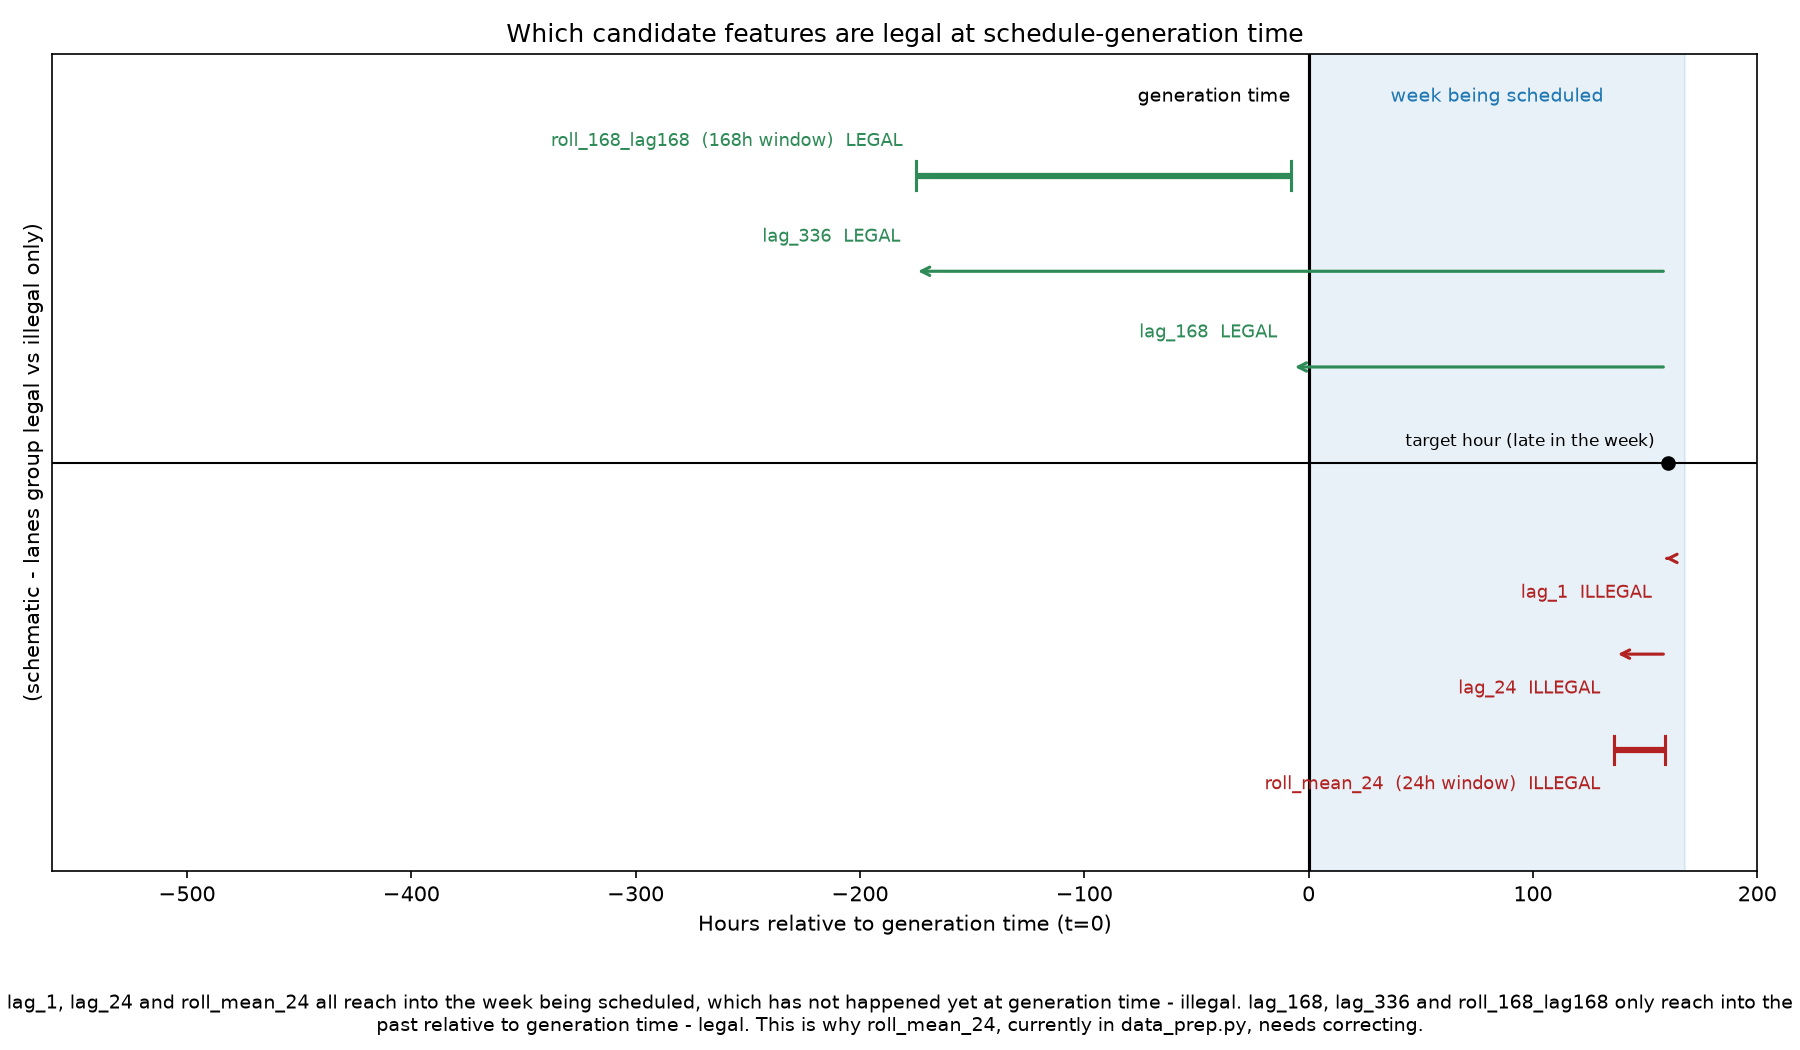
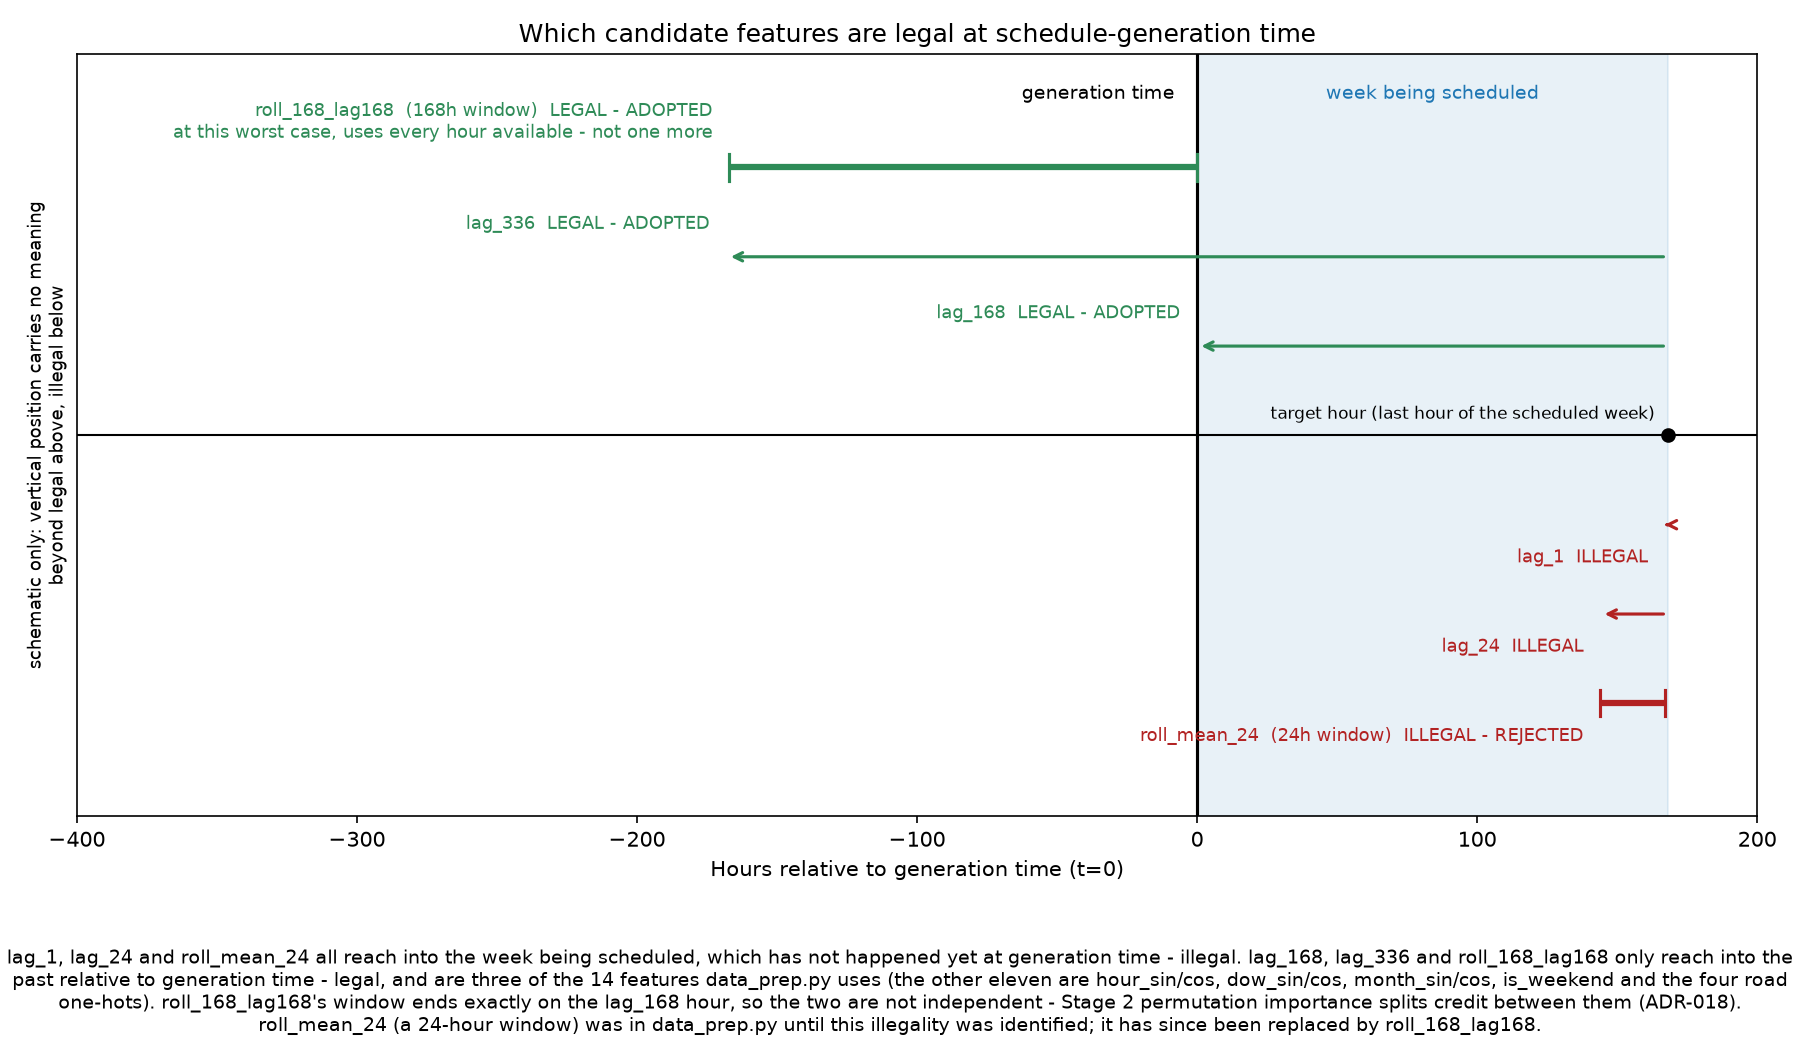
Correct Figure 8 after the ADR-015 feature change
Figure 8 presented the 24-hour rolling mean as a current feature in
data_prep.py. ADR-015 replaced it, so the figure was factually wrong from
commit ac695a1 onward. ADR-017 anticipated this.

Three corrections from human review. The target hour moves from t=160 to
t=168, the last hour of the scheduled week, which is the binding case
ADR-015 states the legality rule against. At t=168 lag_168 lands exactly
on the generation line and roll_168_lag168 covers exactly the 168 hours
before it, so the figure now demonstrates the rule rather than
illustrating a comfortable case. The caption no longer describes three
lag features as the whole feature set; it states all fourteen. The
caption also discloses that roll_168_lag168's window ends on the lag_168
hour, so the two features overlap and permutation importance will split
credit between them, as recorded in ADR-018.

Positions are computed from the target offset rather than hardcoded.
Figures 1 to 7 are unchanged; they are drawn from the raw CSV without the
warm-up drop, so the feature change does not affect them.

data/feature_table.csv is left uncommitted pending ADR-019.

diff --git a/explore_features.py b/explore_features.py
@@ -9,23 +9,32 @@ for a report that has to justify each feature with evidence. This file
 produces that evidence as figures and printed numbers, so each feature in
 the methodology chapter can point at a figure instead of an assertion.
 
-It is a verification step, not a formality: it can show a feature choice
-was wrong. One already has - see Figure 8. roll_mean_24 (the mean of the
-24 hours immediately before the predicted hour) needs data that does not
-exist when a week of green-time schedules is generated in advance, in one
-batch, before that week has happened. It is illegal for a generation-time
+It is a verification step, not a formality: it already showed a feature
+choice was wrong - see Figure 8. roll_mean_24 (the mean of the 24 hours
+immediately before the predicted hour) needs data that does not exist when
+a week of green-time schedules is generated in advance, in one batch,
+before that week has happened. It was illegal for a generation-time
 feature set even though it is a perfectly good feature for same-day
-forecasting. Correcting data_prep.py for this is a separate task; this
-file's job is only to produce the evidence.
+forecasting. data_prep.py has since been corrected (ADR-015): it now uses
+lag_168, lag_336 and roll_168_lag168, and no longer uses roll_mean_24.
+Figure 8 records the reasoning that correction was based on.
 
 WHY THIS FILE DOES NOT IMPORT FROM data_prep.py
 --------------------------------------------------
-Figures 6 and 8 examine candidate features - lag_336, roll_168_lag168 -
-that do not exist in data_prep.py's FEATURE_COLUMNS. This file reads
-data/traffic_final_cleaned.csv directly and computes everything itself,
-independently of data_prep.py, so it can examine features data_prep.py
-has not adopted yet without needing to modify it (which this task
-explicitly forbids).
+This file reads data/traffic_final_cleaned.csv directly and computes every
+lag and rolling feature itself, independently of data_prep.py, rather than
+calling its engineering functions. The figures exist to be evidence for the
+feature choices in a report, and evidence that shares a code path with the
+thing it evidences cannot catch a bug in it: if both files computed
+roll_168_lag168 the same wrong way, these figures would faithfully
+reproduce data_prep.py's bug rather than reveal it. Keeping a second,
+independent implementation is what makes an agreement check between the two
+meaningful rather than circular (see the cross-check in __main__).
+
+One exception: FEATURE_COLUMNS itself is imported below, but only to print
+its length in Figure 8's caption. It is a list of column names, not a
+computation, so reading it does not create the shared-code-path problem
+above.
 
 A NOTE ON WHAT AN AUTOMATED REVIEW CAN AND CANNOT CHECK
 ----------------------------------------------------------
@@ -50,6 +59,8 @@ import matplotlib.pyplot as plt
 import numpy as np
 import pandas as pd
 
+from data_prep import FEATURE_COLUMNS
+
 DATA_PATH = "data/traffic_final_cleaned.csv"
 FIG_DIR = "figures"
 DPI = 150
@@ -63,6 +74,7 @@ TREND_WINDOW = 672  # 28 days - matches TRAILING_WINDOW_HOURS in data_prep.py
 
 # Candidate lag features examined in Figure 8. Defined here as constants so
 # the diagram cannot drift out of step with the definitions again.
+LAG_24 = 24                      # same hour, 1 day earlier
 LAG_168 = 168                    # same hour, 1 week earlier
 LAG_336 = 336                    # same hour, 2 weeks earlier
 ROLL_WINDOW_LEGAL = 168          # width of the legal rolling mean
@@ -432,30 +444,46 @@ def fig8_feature_legality():
     eye after any change.
 
     Generation happens at t=0; a week of schedules (t=0 to t=168) is
-    produced in one batch before any of it has happened. A target hour
-    late in that week (t=160) can only legally use data that already
-    existed at t=0, i.e. data from t<=0.
+    produced in one batch before any of it has happened. The target hour is
+    placed at t=168, the LAST hour of that week - the binding case, where
+    every legal feature has the least room to spare. It can only legally
+    use data that already existed at t=0, i.e. data from t<=0.
 
     ILLEGAL, all reach into the week being scheduled:
-        lag_1         -> t=159
-        lag_24        -> t=136
-        roll_mean_24  -> window [t-24, t-1] = [136, 159]
+        lag_1         -> t=167   (never adopted - illustrative only)
+        lag_24        -> t=144   (never adopted - illustrative only)
+        roll_mean_24  -> window [t-24, t-1] = [144, 167]
+                         (WAS in data_prep.py; REJECTED and replaced by
+                         ADR-015 once this figure's reasoning identified
+                         it as illegal)
 
-    LEGAL, all resolve to t<=0:
-        lag_168          -> t=-8
-        lag_336          -> t=-176
+    LEGAL, all resolve to t<=0 - this is the set data_prep.py uses now:
+        lag_168          -> t=0    (lands exactly on generation time - the
+                                    worst legal case, with zero hours to
+                                    spare)
+        lag_336          -> t=-168
         roll_168_lag168  -> a 168-HOUR mean ending 168h before the target,
-                            i.e. window [t-335, t-168] = [-175, -8]
+                            i.e. window [t-335, t-168] = [-167, 0]. At this
+                            worst case it uses every one of the 168 hours
+                            available before generation time, and not one
+                            more.
 
     Note the width of roll_168_lag168: 168 hours, not 24. An earlier
     version of this file drew it as a 24-hour bracket, and every automated
     review item still passed, because a schematic has no numbers to check.
     The constants at the top of this module now drive the arithmetic so the
     drawing cannot drift from the definition again.
+
+    All lane positions below are computed as offsets from `target`, not
+    hardcoded, so moving the target (or changing LAG_168/LAG_336/the roll
+    constants) keeps the geometry self-consistent.
     """
     print()
     print("=== Figure 8: feature legality at schedule-generation time ===")
-    target = 160  # a target hour late in the scheduled week
+    # t=168, the last hour of the scheduled week (ADR-015's furthest-hour
+    # rule) - not t=160. At t=160 every legal feature clears the generation
+    # line with room to spare; only the last hour is the binding case.
+    target = LAG_168
 
     fig, ax = plt.subplots(figsize=(12, 7))
     ax.axhline(0, color="black", linewidth=1)
@@ -467,7 +495,7 @@ def fig8_feature_legality():
             fontsize=9, color="tab:blue")
 
     ax.scatter([target], [0], color="black", zorder=5)
-    ax.annotate("target hour (late in the week)", (target, 0),
+    ax.annotate("target hour (last hour of the scheduled week)", (target, 0),
                 textcoords="offset points", xytext=(-6, 8), ha="right", fontsize=8)
 
     # Lane positions. Generous spacing so multi-line labels never overlap
@@ -476,7 +504,7 @@ def fig8_feature_legality():
     LANE = 0.34
     TEXT_GAP = 0.09
 
-    illegal_points = [("lag_1", target - 1), ("lag_24", target - LAG_168 // 7)]
+    illegal_points = [("lag_1", target - 1), ("lag_24", target - LAG_24)]
     legal_points = [("lag_168", target - LAG_168), ("lag_336", target - LAG_336)]
 
     y = -LANE
@@ -489,7 +517,10 @@ def fig8_feature_legality():
 
     # roll_mean_24: a WINDOW, not a point. Ends ROLL_SHIFT_ILLEGAL hours
     # before the target and is ROLL_WINDOW_ILLEGAL hours wide, so it sits
-    # entirely inside the scheduled week. ILLEGAL.
+    # entirely inside the scheduled week. ILLEGAL - and unlike lag_1/lag_24
+    # above, this one was actually in data_prep.py until ADR-015 replaced
+    # it with roll_168_lag168, so the label says REJECTED rather than just
+    # ILLEGAL to mark that history.
     ill_end = target - ROLL_SHIFT_ILLEGAL
     ill_start = ill_end - ROLL_WINDOW_ILLEGAL + 1
     ax.plot([ill_start, ill_end], [y, y], color="firebrick", linewidth=3,
@@ -497,20 +528,21 @@ def fig8_feature_legality():
     ax.plot([ill_start, ill_start], [y - 0.05, y + 0.05], color="firebrick", linewidth=1.5)
     ax.plot([ill_end, ill_end], [y - 0.05, y + 0.05], color="firebrick", linewidth=1.5)
     ax.text(ill_start - 6, y - TEXT_GAP,
-            f"roll_mean_24  ({ROLL_WINDOW_ILLEGAL}h window)  ILLEGAL",
+            f"roll_mean_24  ({ROLL_WINDOW_ILLEGAL}h window)  ILLEGAL - REJECTED",
             ha="right", va="top", fontsize=8.5, color="firebrick")
 
     y = LANE
     for name, x in legal_points:
         ax.annotate("", xy=(x, y), xytext=(target, y),
                     arrowprops=dict(arrowstyle="->", color="seagreen", linewidth=1.5))
-        ax.text(x - 6, y + TEXT_GAP, f"{name}  LEGAL", ha="right", va="bottom",
+        ax.text(x - 6, y + TEXT_GAP, f"{name}  LEGAL - ADOPTED", ha="right", va="bottom",
                 fontsize=8.5, color="seagreen")
         y += LANE
 
     # roll_168_lag168: a 168-HOUR mean ending ROLL_SHIFT_LEGAL hours before
     # the target, so window [target-335, target-168]. Entirely at or before
-    # generation time. LEGAL.
+    # generation time. LEGAL, and - together with lag_168 and lag_336 above -
+    # the feature data_prep.py adopted in its place (ADR-015).
     leg_end = target - ROLL_SHIFT_LEGAL
     leg_start = leg_end - ROLL_WINDOW_LEGAL + 1
     ax.plot([leg_start, leg_end], [y, y], color="seagreen", linewidth=3,
@@ -518,24 +550,37 @@ def fig8_feature_legality():
     ax.plot([leg_start, leg_start], [y - 0.05, y + 0.05], color="seagreen", linewidth=1.5)
     ax.plot([leg_end, leg_end], [y - 0.05, y + 0.05], color="seagreen", linewidth=1.5)
     ax.text(leg_start - 6, y + TEXT_GAP,
-            f"roll_168_lag168  ({ROLL_WINDOW_LEGAL}h window)  LEGAL",
+            f"roll_168_lag168  ({ROLL_WINDOW_LEGAL}h window)  LEGAL - ADOPTED\n"
+            "at this worst case, uses every hour available - not one more",
             ha="right", va="bottom", fontsize=8.5, color="seagreen")
 
-    ax.set_xlim(-560, 200)
+    # Cropped from -560: nothing is drawn left of lag_336 at -168, so -560
+    # was mostly empty margin. -400 keeps the informative region larger on
+    # the page without clipping any drawn element.
+    ax.set_xlim(-400, 200)
     ax.set_ylim(-1.45, 1.45)
     ax.set_yticks([])
     ax.set_xlabel("Hours relative to generation time (t=0)")
-    ax.set_ylabel("(schematic - lanes group legal vs illegal only)")
+    ax.set_ylabel("schematic only: vertical position carries no meaning\n"
+                   "beyond legal above, illegal below", fontsize=8.5)
     ax.set_title("Which candidate features are legal at schedule-generation time")
     caption(fig, "lag_1, lag_24 and roll_mean_24 all reach into the week being "
                   "scheduled, which has not happened yet at generation time - "
                   "illegal. lag_168, lag_336 and roll_168_lag168 only reach into "
-                  "the past relative to generation time - legal. This is why "
-                  "roll_mean_24, currently in data_prep.py, needs correcting.")
+                  "the past relative to generation time - legal, and are three "
+                  f"of the {len(FEATURE_COLUMNS)} features data_prep.py uses "
+                  "(the other eleven are hour_sin/cos, dow_sin/cos, "
+                  "month_sin/cos, is_weekend and the four road one-hots). "
+                  "roll_168_lag168's window ends exactly on the lag_168 hour, "
+                  "so the two are not independent - Stage 2 permutation "
+                  "importance splits credit between them (ADR-018). "
+                  f"roll_mean_24 (a {ROLL_WINDOW_ILLEGAL}-hour window) was in "
+                  "data_prep.py until this illegality was identified; it has "
+                  "since been replaced by roll_168_lag168.")
     save(fig, "fig8_feature_legality.png", rows_used=0,
          note=f"illustrative diagram, not real data rows; "
-              f"legal window drawn as [{leg_start}, {leg_end}] "
-              f"({ROLL_WINDOW_LEGAL}h), illegal window as "
+              f"legal/adopted window drawn as [{leg_start}, {leg_end}] "
+              f"({ROLL_WINDOW_LEGAL}h), illegal/rejected window as "
               f"[{ill_start}, {ill_end}] ({ROLL_WINDOW_ILLEGAL}h)")
 
 
